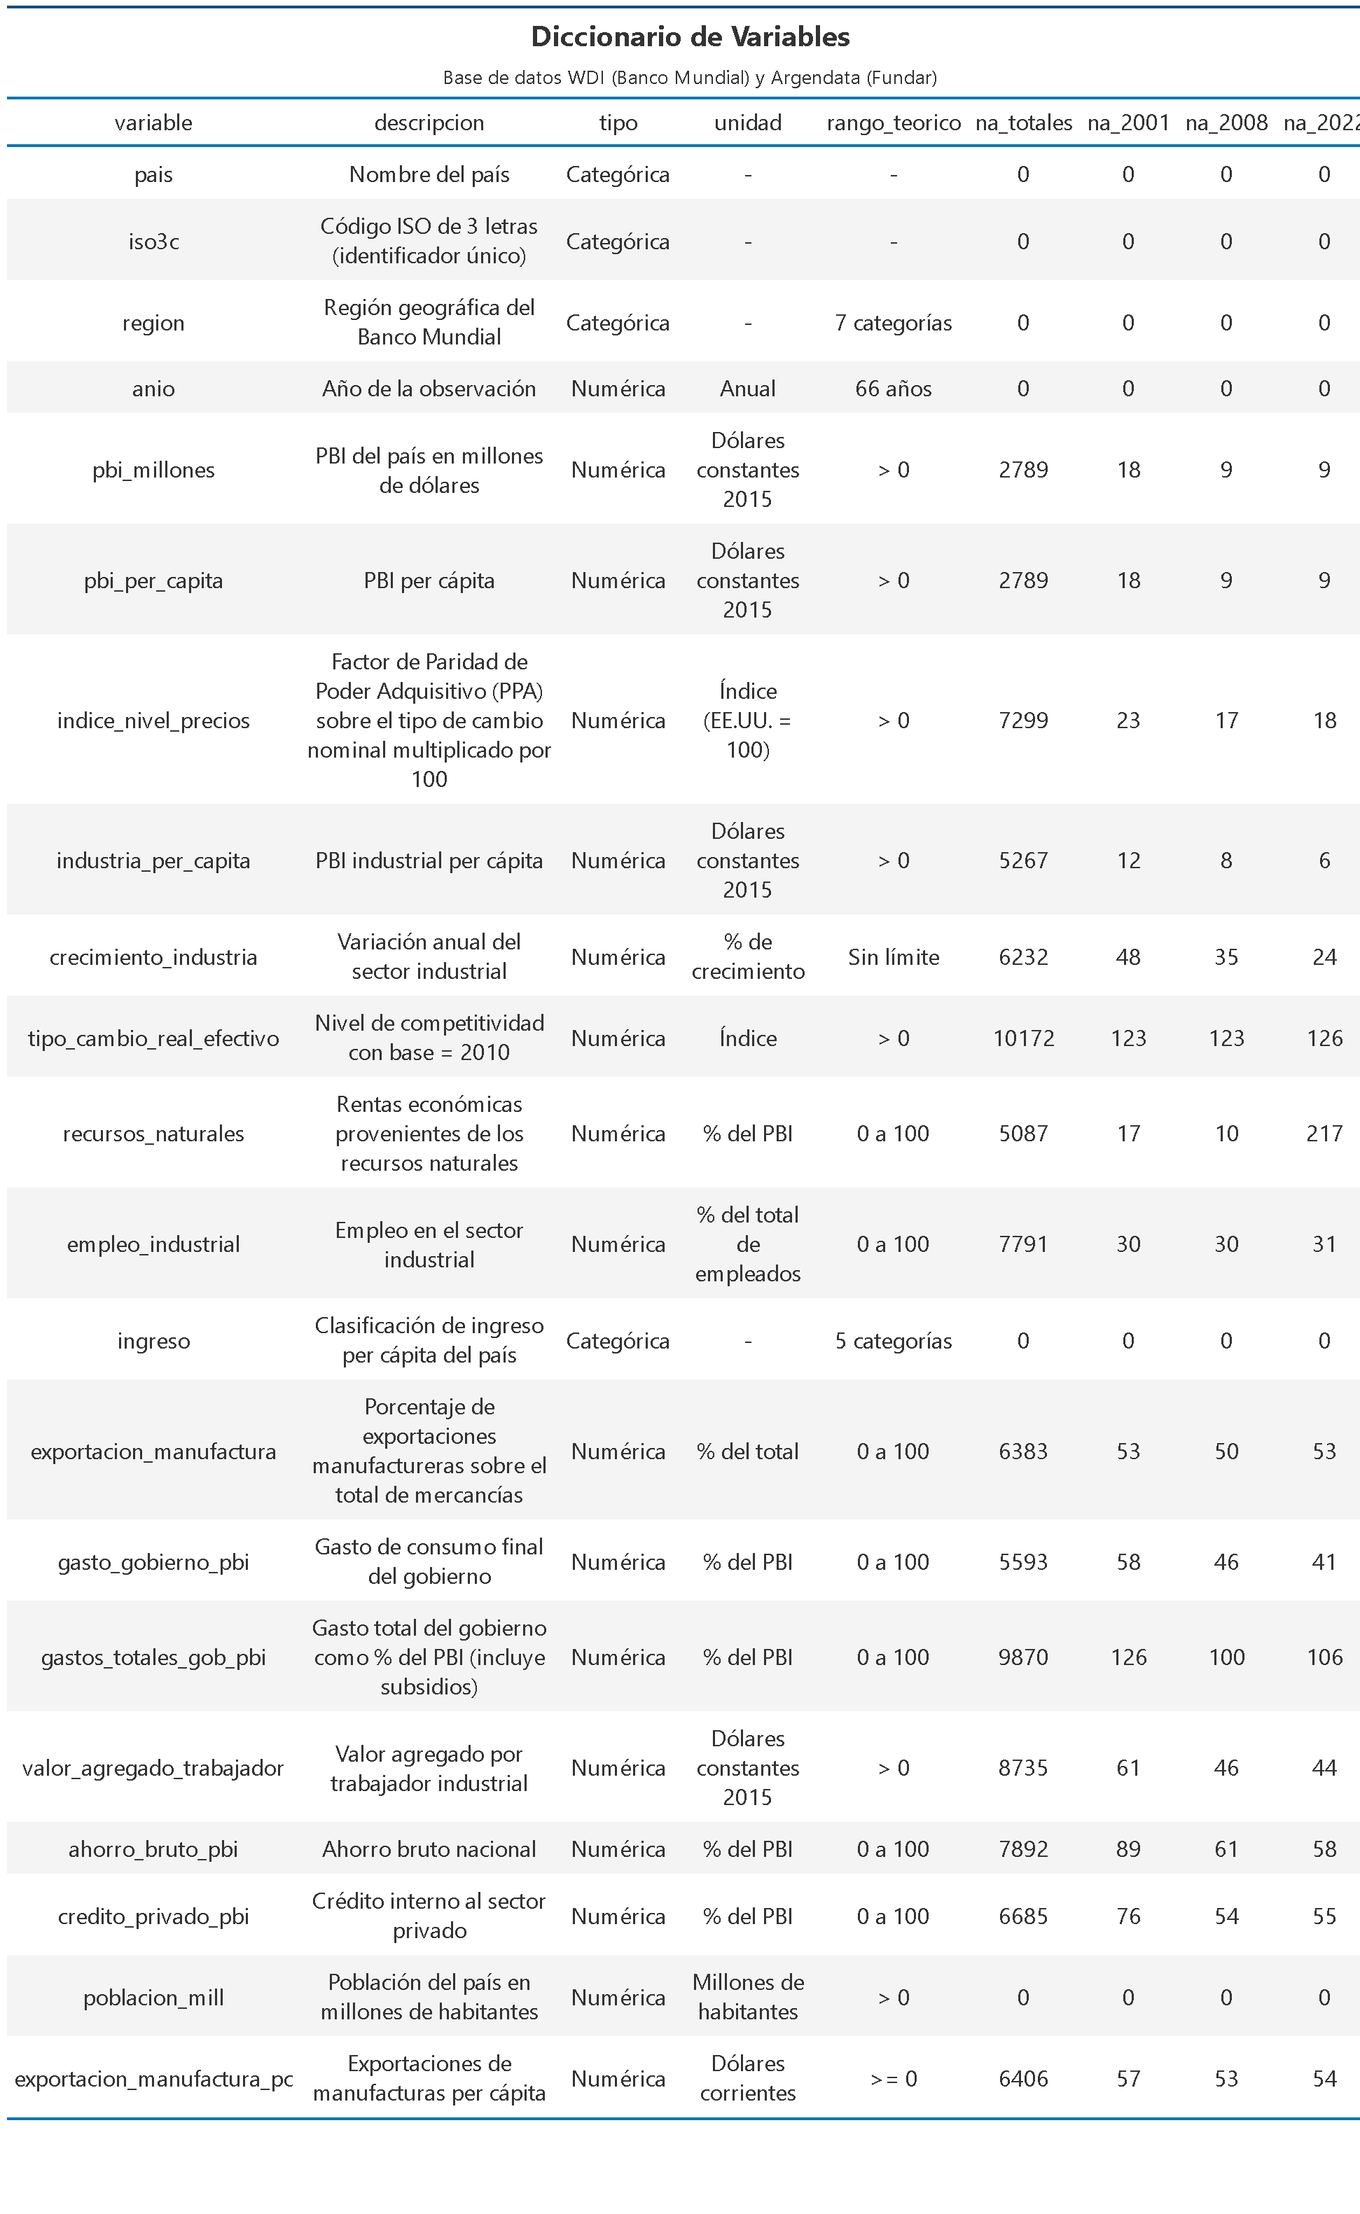
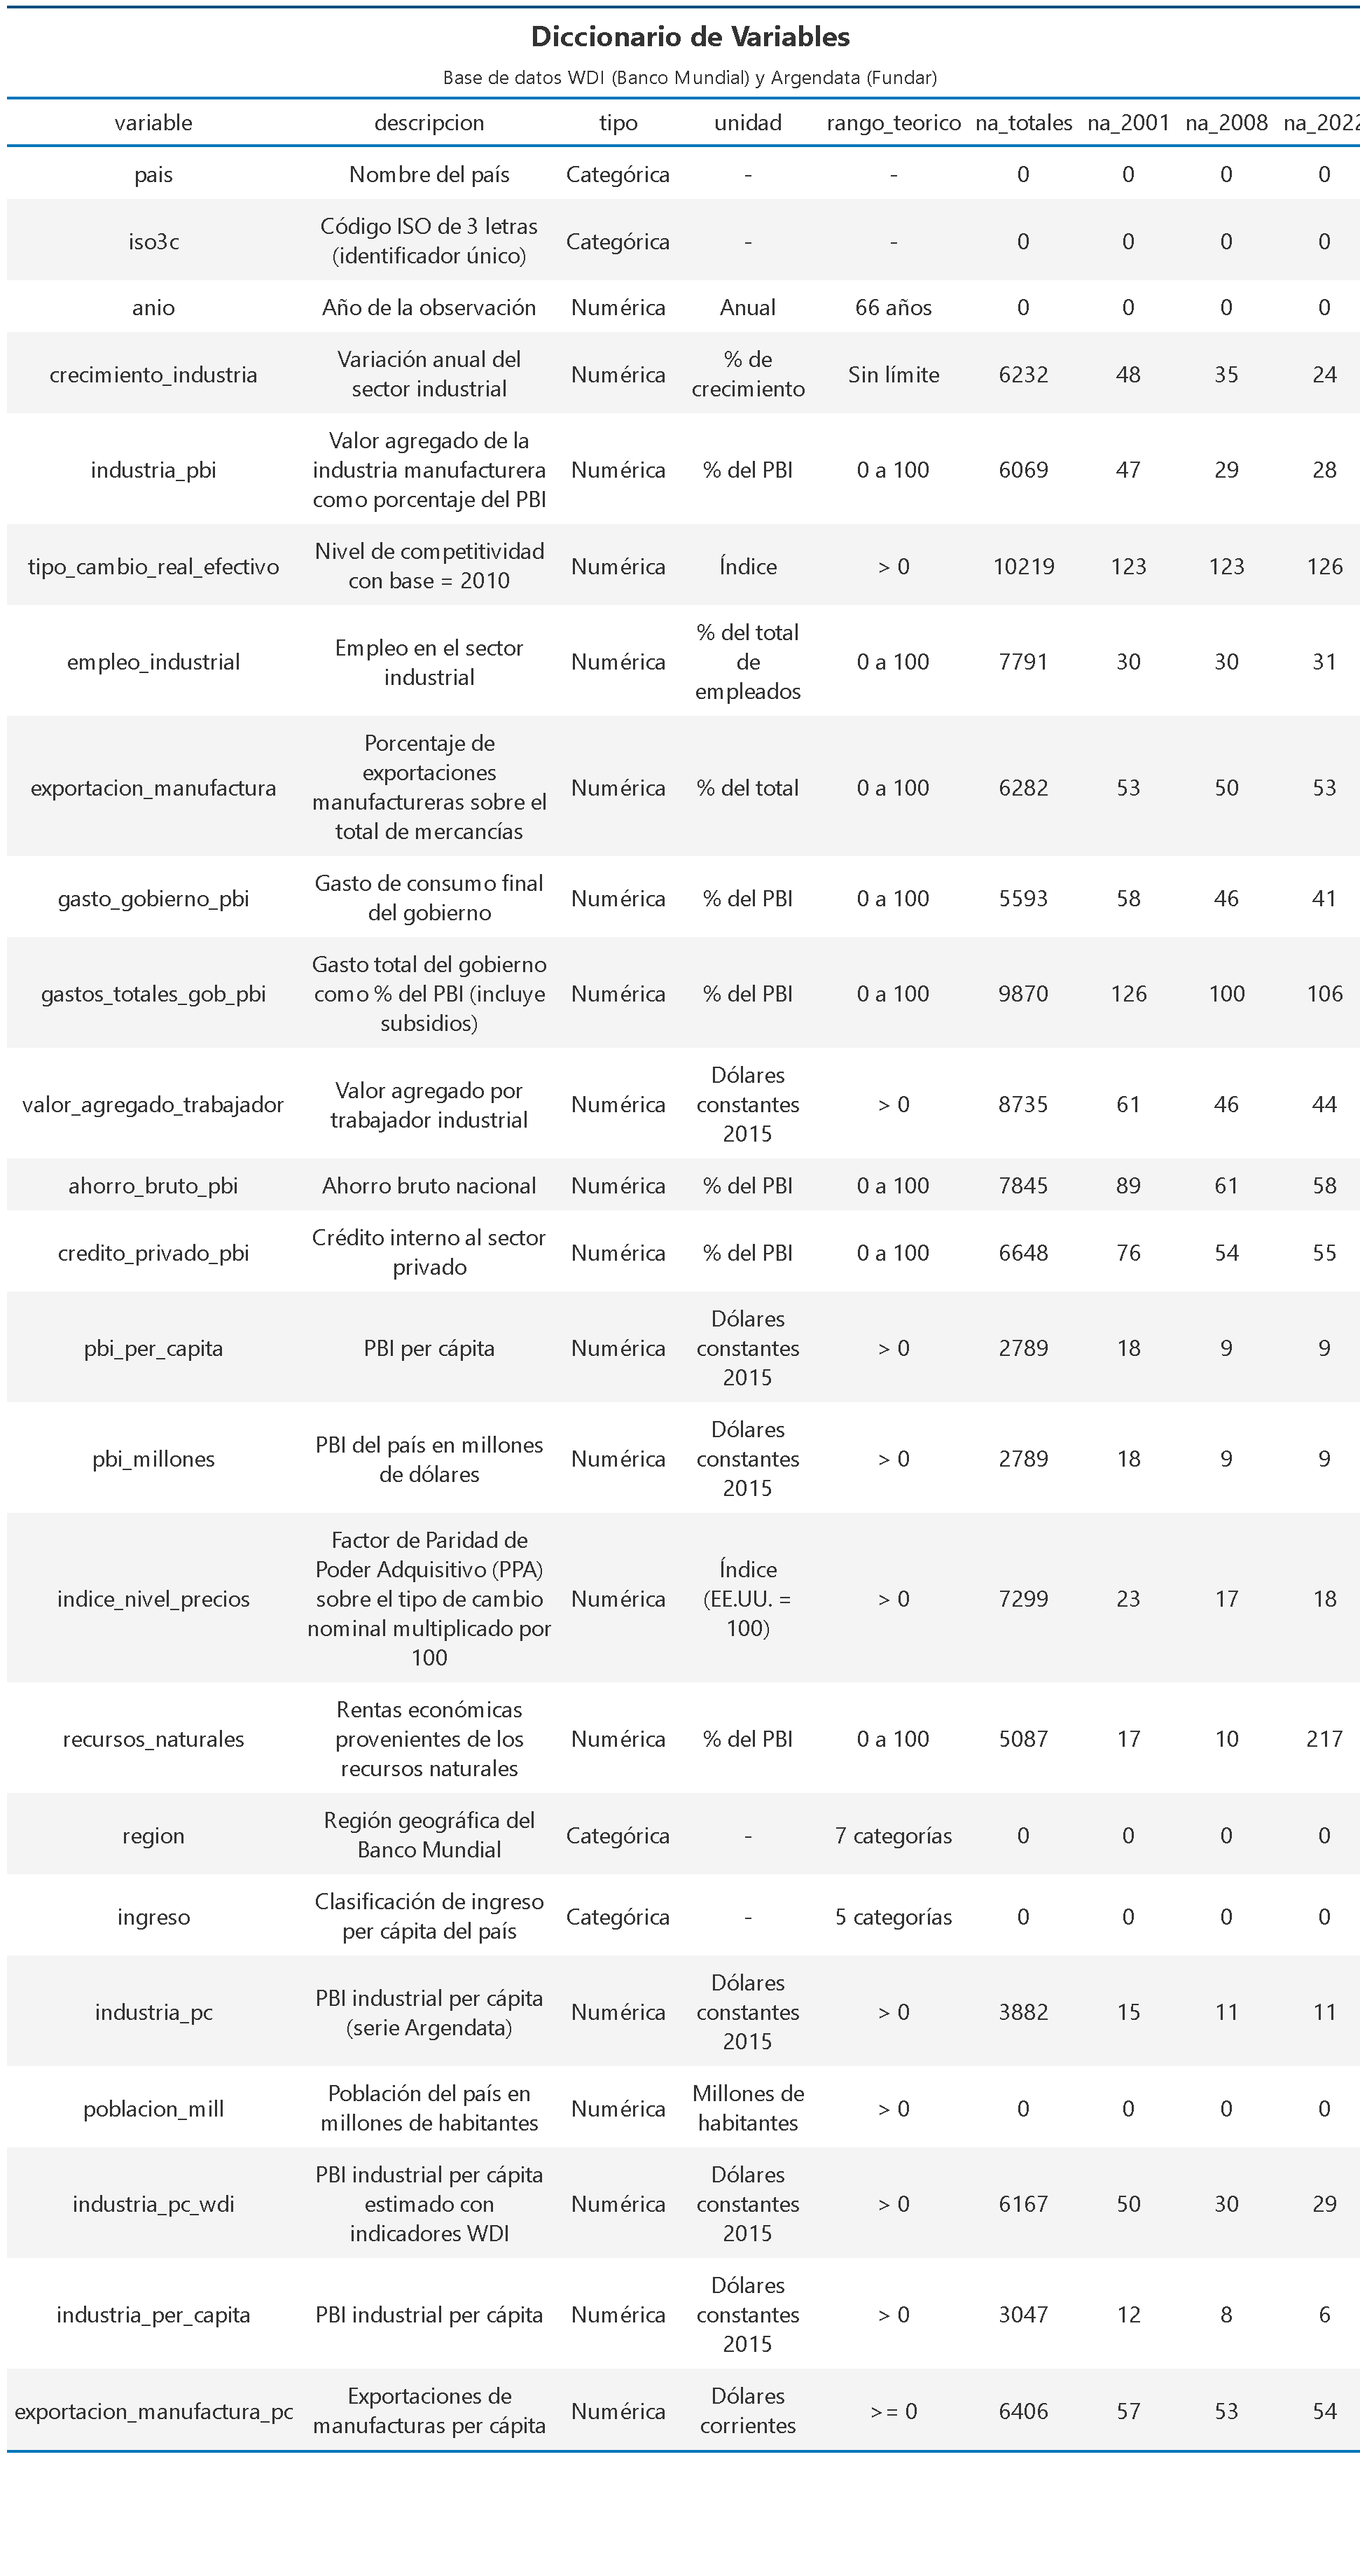
push diccionario

diff --git a/README.md b/README.md
@@ -35,6 +35,7 @@ Analizar la relación empírica entre el nivel relativo de precios (Índice de N
 | `indice_nivel_precios` | Factor de Paridad de Poder Adquisitivo (PPA) sobre el tipo de cambio nominal multiplicado por 100 | Numérica | Índice (EE.UU. = 100) | > 0 | 7299 | 23 | 17 | 18 |
 | `industria_per_capita` | PBI industrial per cápita | Numérica | Dólares constantes 2015 | > 0 | 5267 | 12 | 8 | 6 |
 | `crecimiento_industria` | Variación anual del sector industrial | Numérica | % de crecimiento | Sin límite | 6232 | 48 | 35 | 24 |
+| `industria_pbi` | Valor agregado de la industria manufacturera como porcentaje del PBI | Numérica | % del PBI | 0 a 100 | 6069 | 47 | 29 | 28 |
 | `tipo_cambio_real_efectivo` | Nivel de competitividad con base = 2010 | Numérica | Índice | > 0 | 10172 | 123 | 123 | 126 |
 | `recursos_naturales` | Rentas económicas provenientes de los recursos naturales | Numérica | % del PBI | 0 a 100 | 5087 | 17 | 10 | 217 |
 | `empleo_industrial` | Empleo en el sector industrial | Numérica | % del total de empleados | 0 a 100 | 7791 | 30 | 30 | 31 |
@@ -45,7 +46,9 @@ Analizar la relación empírica entre el nivel relativo de precios (Índice de N
 | `valor_agregado_trabajador` | Valor agregado por trabajador industrial | Numérica | Dólares constantes 2015 | > 0 | 8735 | 61 | 46 | 44 |
 | `ahorro_bruto_pbi` | Ahorro bruto nacional | Numérica | % del PBI | 0 a 100 | 7892 | 89 | 61 | 58 |
 | `credito_privado_pbi` | Crédito interno al sector privado | Numérica | % del PBI | 0 a 100 | 6685 | 76 | 54 | 55 |
+| `industria_pc` | PBI industrial per cápita (serie Argendata) | Numérica | Dólares constantes 2015 | > 0 | 3882 | 15 | 11 | 11 |
 | `poblacion_mill` | Población del país en millones de habitantes | Numérica | Millones de habitantes | > 0 | 0 | 0 | 0 | 0 |
+| `industria_pc_wdi` | PBI industrial per cápita estimado con indicadores WDI | Numérica | Dólares constantes 2015 | > 0 | 6167 | 50 | 30 | 29 |
 | `exportacion_manufactura_pc` | Exportaciones de manufacturas per cápita | Numérica | Dólares corrientes | >= 0 | 6406 | 57 | 53 | 54 |
 
 *Nota: en `script/03.datos faltantes.R` se descartan `tipo_cambio_real_efectivo` y `gastos_totales_gob_pbi` por superar el 40% de faltantes.*
